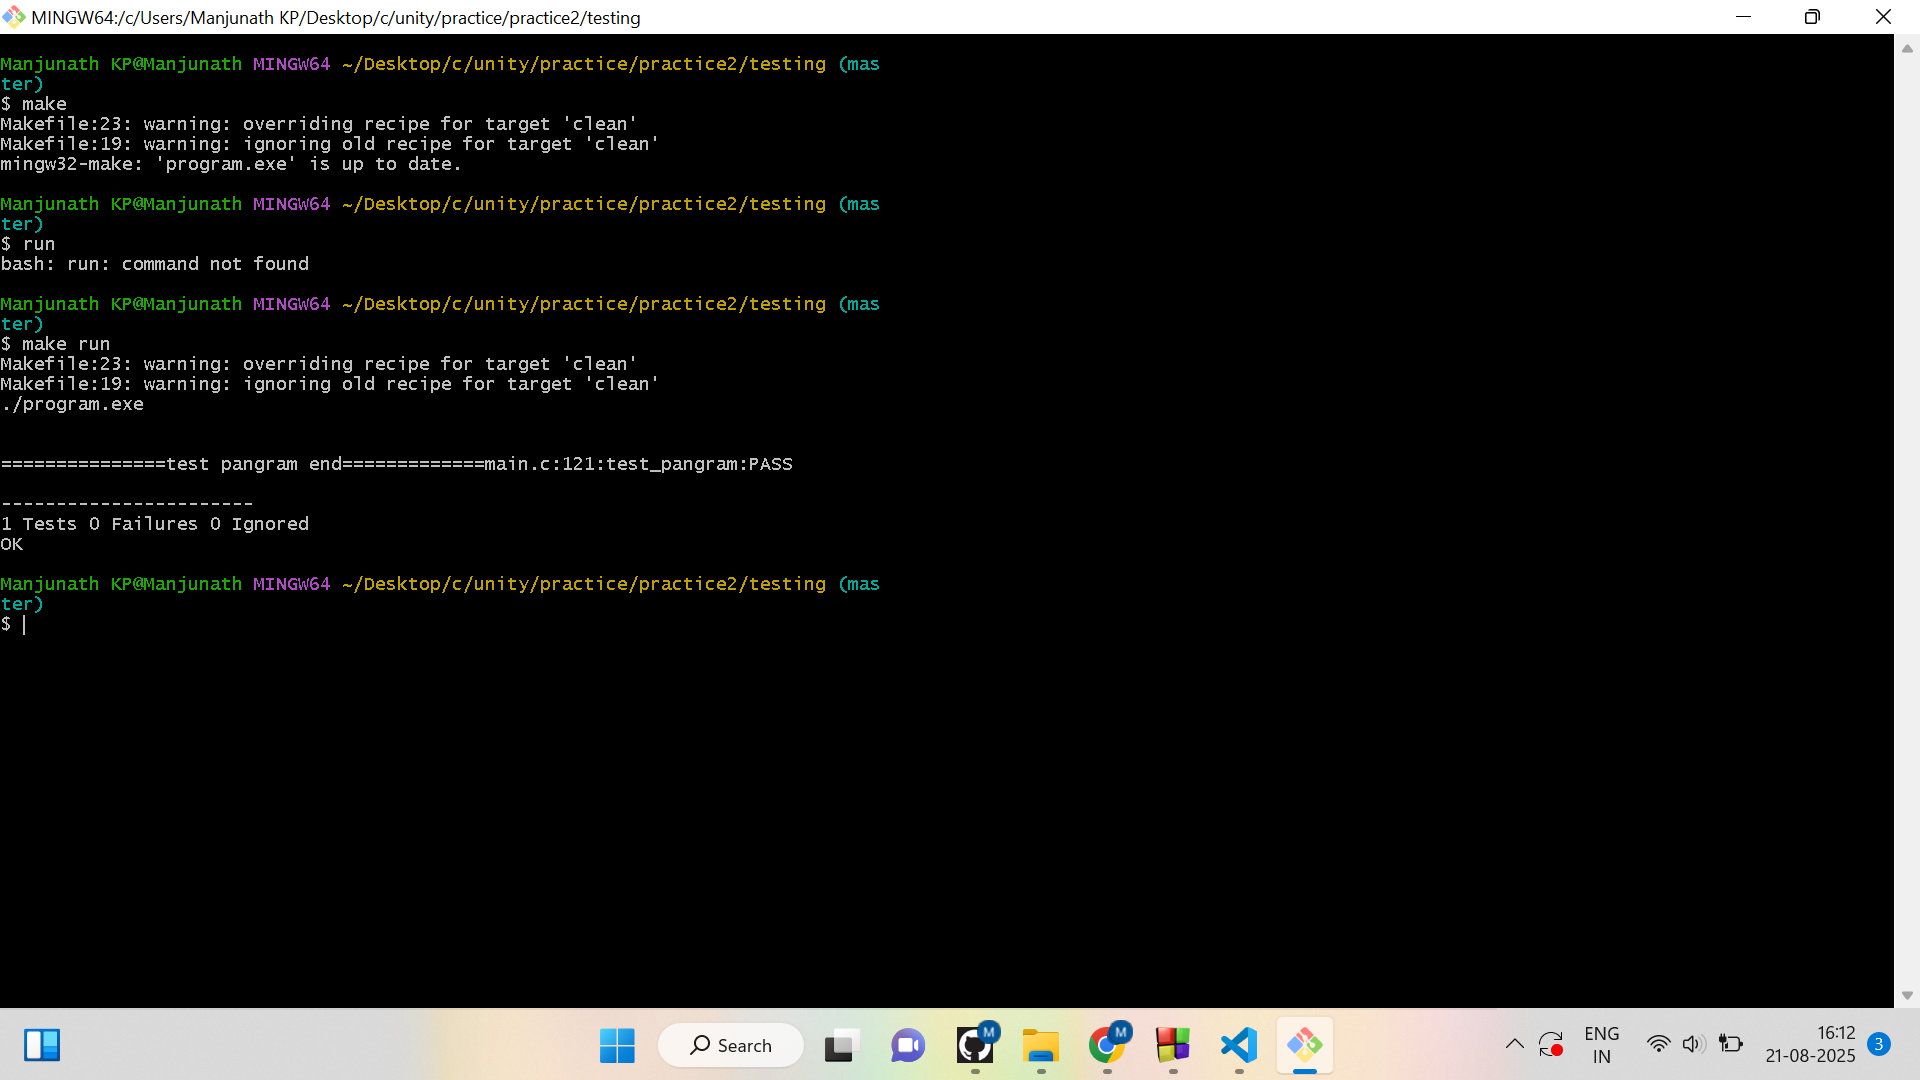
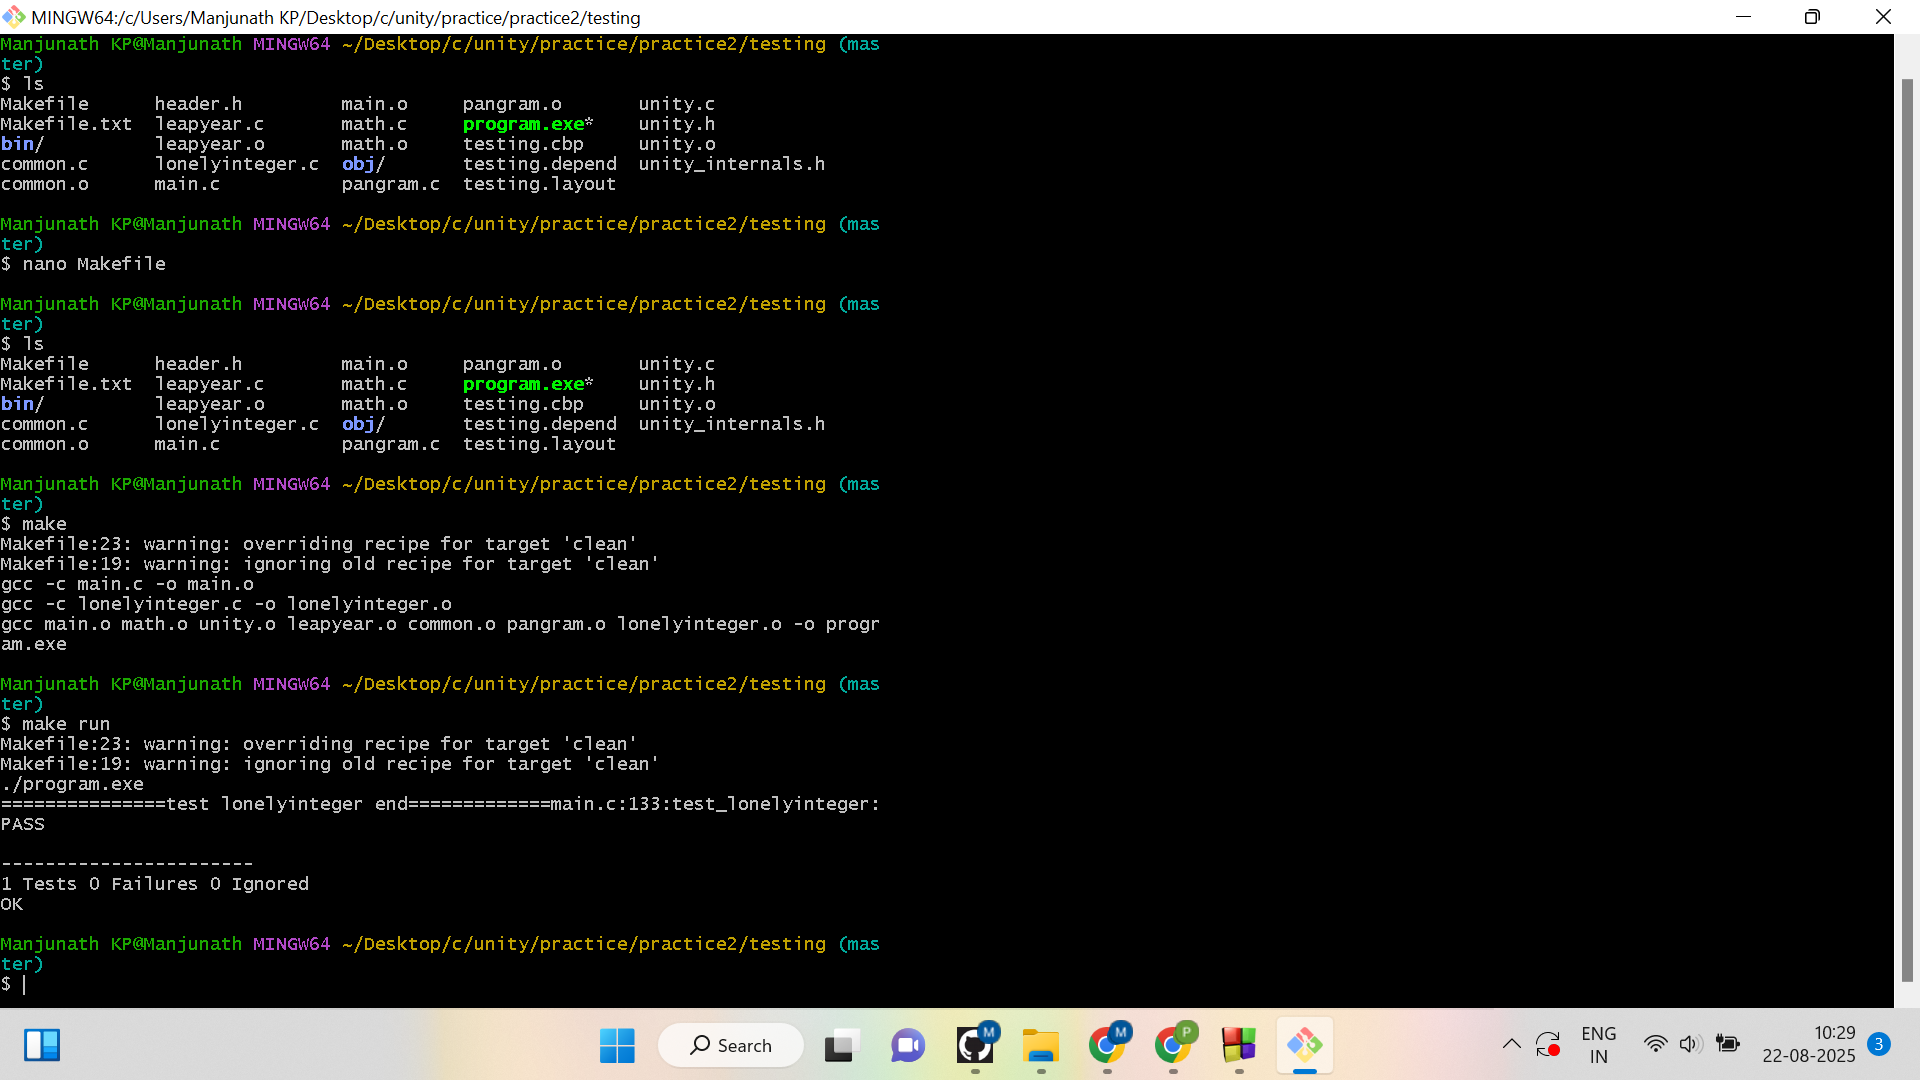
added testing output of lonely integer problem to git

diff --git a/README.md b/README.md
@@ -93,4 +93,7 @@ It contains **certificates**, **hands-on exercises**, and **practical command-li
 <div style="text-align: center;">
   <img src="Unity_week5/output_photos/pangram.png" alt="Descriptive Alt Text" style="max-width: 80%; height: auto; border-radius: 10px; box-shadow: 0 4px 8px rgba(0,0,0,0.2);" />
 </div>
+<div style="text-align: center;">
+  <img src="Unity_week5/output_photos/lonelyinteger.png" alt="Descriptive Alt Text" style="max-width: 80%; height: auto; border-radius: 10px; box-shadow: 0 4px 8px rgba(0,0,0,0.2);" />
+</div>
 </section>
